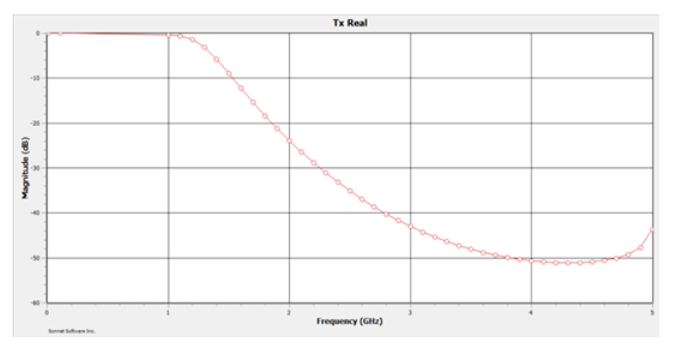
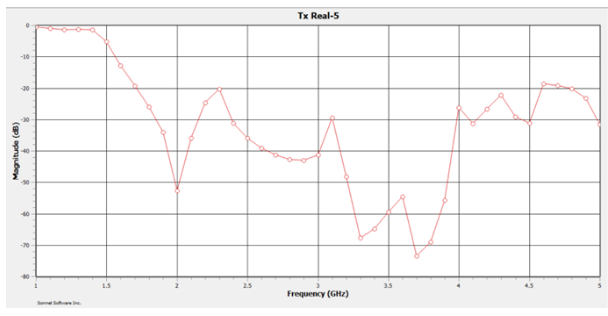
Change the PCB photo and re calculate graph

Changed region(s): [[0.0, 0.0, 1.0, 0.9399], [0.0625, 0.9114, 0.1562, 0.9684]]

diff --git a/IUP-YxBanpu/readme.md b/IUP-YxBanpu/readme.md
@@ -46,6 +46,9 @@ Case 3: Zh=150Ω, Zl=25Ω
 
 <img width="502" src="Photo/9.png">
 
+Compare Graph
+<img width="502" src="Photo/9_1.png">
+
 
 
 Compare cases at f = 2 GHz.
